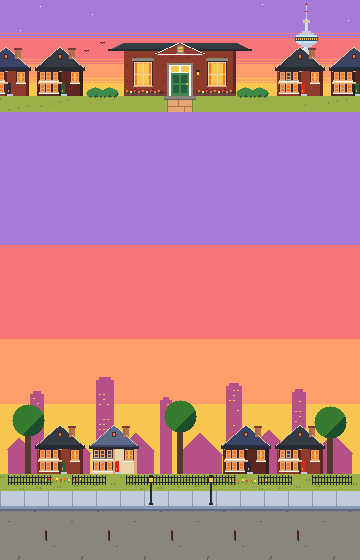
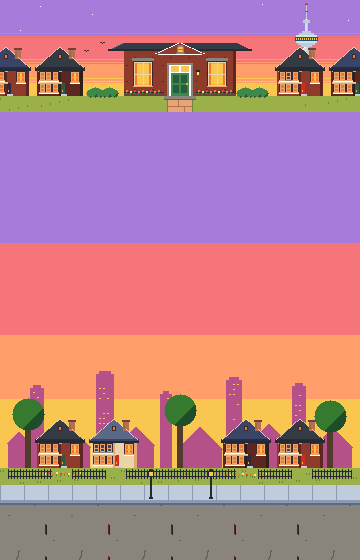
Draw screen-end's road from row 505, under Back to title at y508
The street strip moves up 6 rows with the 48 px button, so the road still shows 3 rows above it.
The walk bar's comments describe three 48 px button columns and wells 1 px apart; ui-walk-bar's
pixels are unchanged, and the slot sign's comment gives its raised place clear of the shopkeeper.

diff --git a/art/tools/screens.ts b/art/tools/screens.ts
@@ -32,12 +32,12 @@
 //   behind orange curtains; the CN Tower rises lit over the right ones (END_CN). The moss lawn
 //   from y 96 stays quiet behind the returning pack and gives the waving owners room either side,
 //   feet on y 110. Cabbagetown's dusk bands (DUSK_SKY) fill the sky twice: behind the house down
-//   to its lawn, and behind the panel down to the far rooftops and towers in mauve (y 450). Then
-//   the street's bay-and-gables and canopy trees (from y 370), iron fences, the yards, the
-//   sidewalk (rows 491 to 505) with two heritage lamps, the curb, and from END_ROAD (511)
-//   Kensington Market's brick road under the button (32,514 296x44), which bobs 1px up, so at
-//   least 2 rows of road show above and below it. The houses, trees and fences stay within x 8 to
-//   352, so beside the badges panel (8,416 344x92) the margins show only sky, lawn and sidewalk.
+//   to its lawn, and behind the panel down to the far rooftops and towers in mauve (y 444). Then
+//   the street's bay-and-gables and canopy trees (from y 364), iron fences, the yards, the
+//   sidewalk (rows 485 to 499) with two heritage lamps, the curb, and from END_ROAD (505)
+//   Kensington Market's brick road under the button (32,508 296x48), which bobs 1px up, so at
+//   least 2 rows of road show above it and 4 below. The houses, trees and fences stay within x 8 to
+//   352, so beside the badges panel (8,413 344x92) the margins show only sky, lawn and sidewalk.
 // - screen-loading: a Toronto street at night, shown while the game loads, seen from the road.
 //   NIGHT_SKY's bands fill the sky down to SKY_FOOT (356), stars, a crescent moon at the top left
 //   and the logo drawn in at 2x (290x82 at 35,74) in the navy band. Far back, downtown's towers in
@@ -1027,9 +1027,9 @@ const NIGHT_SKY: readonly string[] = ["navy", "purple", "mauve"];
 
 // ---------- screen-end ----------
 
-const END_STREET = 370; // top of the street strip on screen-end
+const END_STREET = 364; // top of the street strip on screen-end
 // The street strip's front yards, the lawn from its row 104; the sidewalk, curb and gutter's 20 rows
-// follow, so the road starts on screen row END_ROAD, 3 rows over the button's top (514) and 2 over
+// follow, so the road starts on screen row END_ROAD, 3 rows over the button's top (508) and 2 over
 // its 1px bob
 const END_YARD = 17;
 const END_WALK = 104 + END_YARD; // the strip's first sidewalk row
@@ -2005,14 +2005,15 @@ function pair(step: number): Frame {
 
 // ---------- ui-slot-sign ----------
 
-// The dog-slot sign hung from the Pet shop's awning across its front, which the game draws at 255,88:
-// the frame's size, and the cream board in the frame, where the game writes its two lines.
+// The dog-slot sign hung from the Pet shop's awning across its front, which the game draws at 255,70,
+// its board (rows 75 to 98) clear of the shopkeeper's highest door-wave row (100): the frame's size,
+// and the cream board in the frame, where the game writes its two lines.
 const SLOT_SIGN_W = 81;
 const SLOT_SIGN_H = 30;
 const SLOT_BOARD: readonly [x: number, y: number, w: number, h: number] = [1, 5, 79, 24];
 
 // ui-slot-sign: a cream board in a 1px dbrown frame, lit white along its top and tan along its
-// bottom, hung by two dbrown cords from the awning's bottom edge. pressed lets the board drop 1px on
+// bottom, hung by two dbrown cords from the awning's top stripe. pressed lets the board drop 1px on
 // longer cords.
 function slotSign(pressed = false): Frame {
   const g = scope.Grid(SLOT_SIGN_W, SLOT_SIGN_H);
@@ -2115,9 +2116,9 @@ function ui(cv: Canvas, screen: string): void {
       figure(x, foot, 20, 16, "ochre");
     }
     panel(24, 112, 312, 300);
-    panel(8, 416, 344, 92);
-    cv.fill(48, 516, 264, 40, "orange");
-    cv.fill(48, 512, 264, 40, "amber");
+    panel(8, 413, 344, 92);
+    cv.fill(32, 512, 296, 44, "orange");
+    cv.fill(32, 508, 296, 44, "amber");
   } else if (screen === "screen-loading") {
     cv.paste(loadingTrack().img, TRACK_AT[0], TRACK_AT[1]);
     cv.paste(toImage(pair(0)), PAIR_AT[0] + Math.round(PAIR_TRAVEL * 0.4), PAIR_AT[1]);

diff --git a/art/tools/ui.ts b/art/tools/ui.ts
@@ -1507,15 +1507,15 @@ const WALK_CASH_WELL: readonly [number, number, number, number] = [
   LAYOUT.walkBar.parts.cash.well.height,
 ];
 // The effect wells the game draws on the bar: six 22x22 wells (the perk, Pocket, found item and three
-// upgrades), 2 columns apart, set evenly between the cash well and Help's face at x 231, on rows 8 to
-// 29, centred on the buttons' faces (rows 9 to 28). The buttons' hits, 34 wide, fill x 224 to 359 at a
-// 34 pitch, each face centred in its hit (faces at 231 + 34i). The size is the layout's
-// walkBar.parts.effects.size.
+// upgrades), 1 column apart, set evenly between the cash well and Help's press at x 216 (x 77 to 213),
+// on rows 8 to 29, centred on the buttons' faces (rows 9 to 28). The three buttons' presses, 48 wide,
+// fill x 216 to 359 at a 48 pitch, rows 0 to 47, each face centred in its press (faces at 230 + 48i).
+// The size is the layout's walkBar.parts.effects.size.
 const EFFECT_WELL = LAYOUT.walkBar.parts.effects.size;
 
 // 360x40, ui-walk-bar: flat plum with the top bars' trim (dbrown on row 1; brown, dbrown and ink on
 // rows 37 to 39) and the ink cash well at 5,5 70x29, sized for "$888" at 3x with no coin. The game
-// draws the effect wells, the Help, Sound, Settings and Pause buttons and every text and icon on it.
+// draws the effect wells, the Help, Settings and Pause buttons and every text and icon on it.
 function walkBar(): Grid {
   const [w, h] = WALK_BAR;
   const g = new Grid(w, h);
